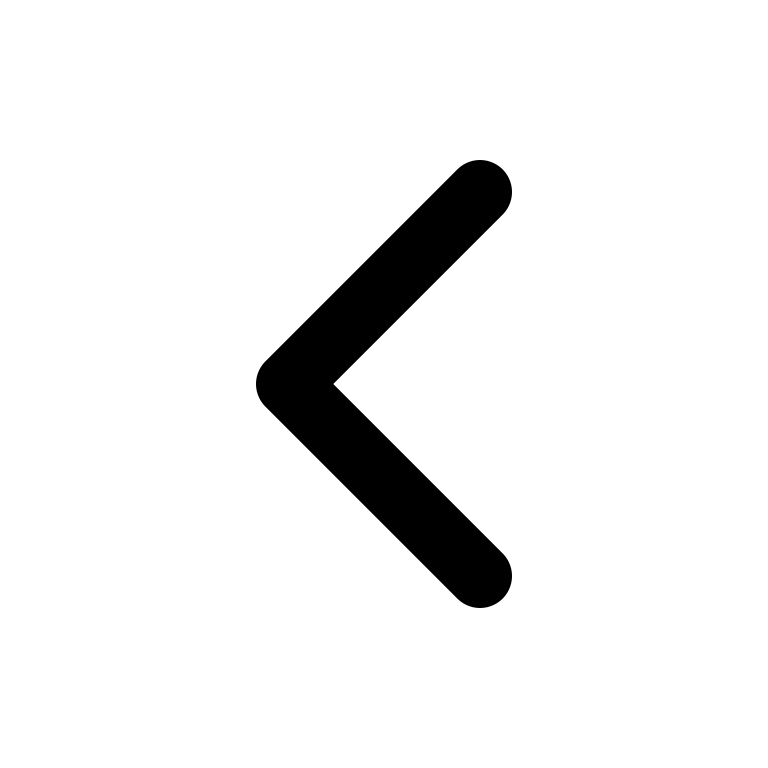
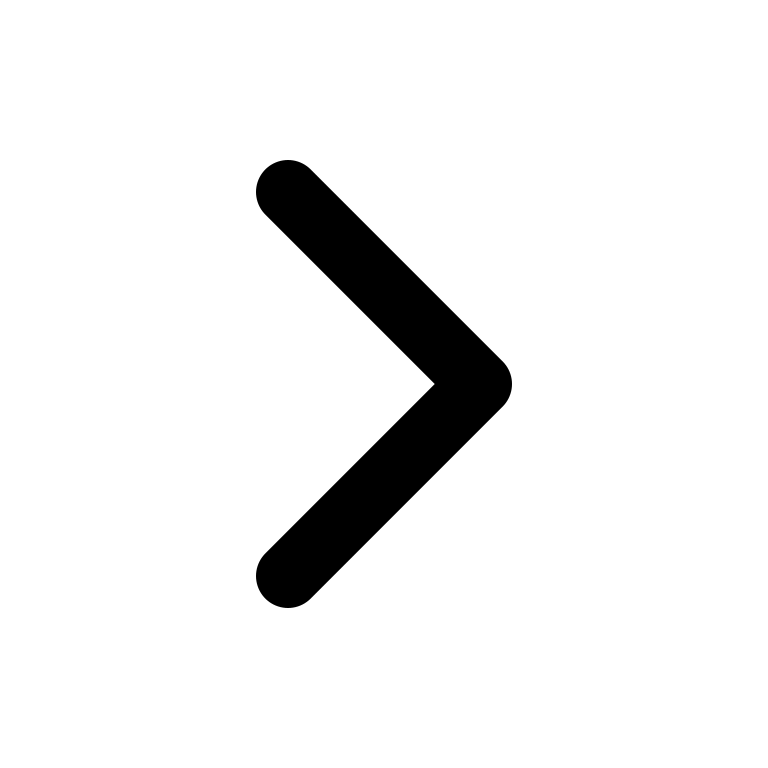
2021-08-23

Changed region(s): [[0.3125, 0.1875, 0.6875, 0.8125]]

diff --git a/홈페이지 양식/mainpost.html b/홈페이지 양식/mainpost.html
@@ -99,7 +99,7 @@
                 <ul class="slidelist">
                     <li>
                         <a>
-                            <img src="/img/01.png">
+                            <img src="/img/기사1.png">
                         </a>
                     </li>
                     <li>
@@ -303,10 +303,10 @@
             </div>
             <div class="buttonbox">
                 <div class="buttontitle">
-                    <h1>ABC</h1>
-                    <p>ABCDEFGHIJKLNMOPQRSTUVW</p>
-                    <p>ABCDEFGHIJKL</p>
-                    <p>ABCDEFGHIJKLNMOPQR</p>
+                    <h1>DOCUMENT FINDER</h1>
+                    <p>여러가지 언어문서들을 한번에!</p>
+                    <p>여러분의 편리한 학습을위한</p>
+                    <p>Document Finder!!</p>
                 </div>
                 <div class="abcbox">
                     <h1 style="
@@ -355,7 +355,7 @@
                     </div>
                 </div>
                 <div class="endmain">
-                    <h2>CodeFinder</h2>
+                    <h2>Code Finder</h2>
                     <ul>
                         <li>
                             <p>

diff --git a/홈페이지 양식/mainpost.css b/홈페이지 양식/mainpost.css
@@ -59,11 +59,11 @@ body {
 }
 .section .slidelist .left {
     left: 10px;
-    background: url("/img/화살2.png") center center / 100% no-repeat;
+    background: url("/img/화살.png") center center / 100% no-repeat;
 }
 .section .slidelist .right {
     right: 10px;
-    background: url("/img/화살.png") center center / 100% no-repeat;
+    background: url("/img/화살2.png") center center / 100% no-repeat;
 }
 
 .section [id="slide01"]:checked ~ .slidewrap .slidelist > li {
